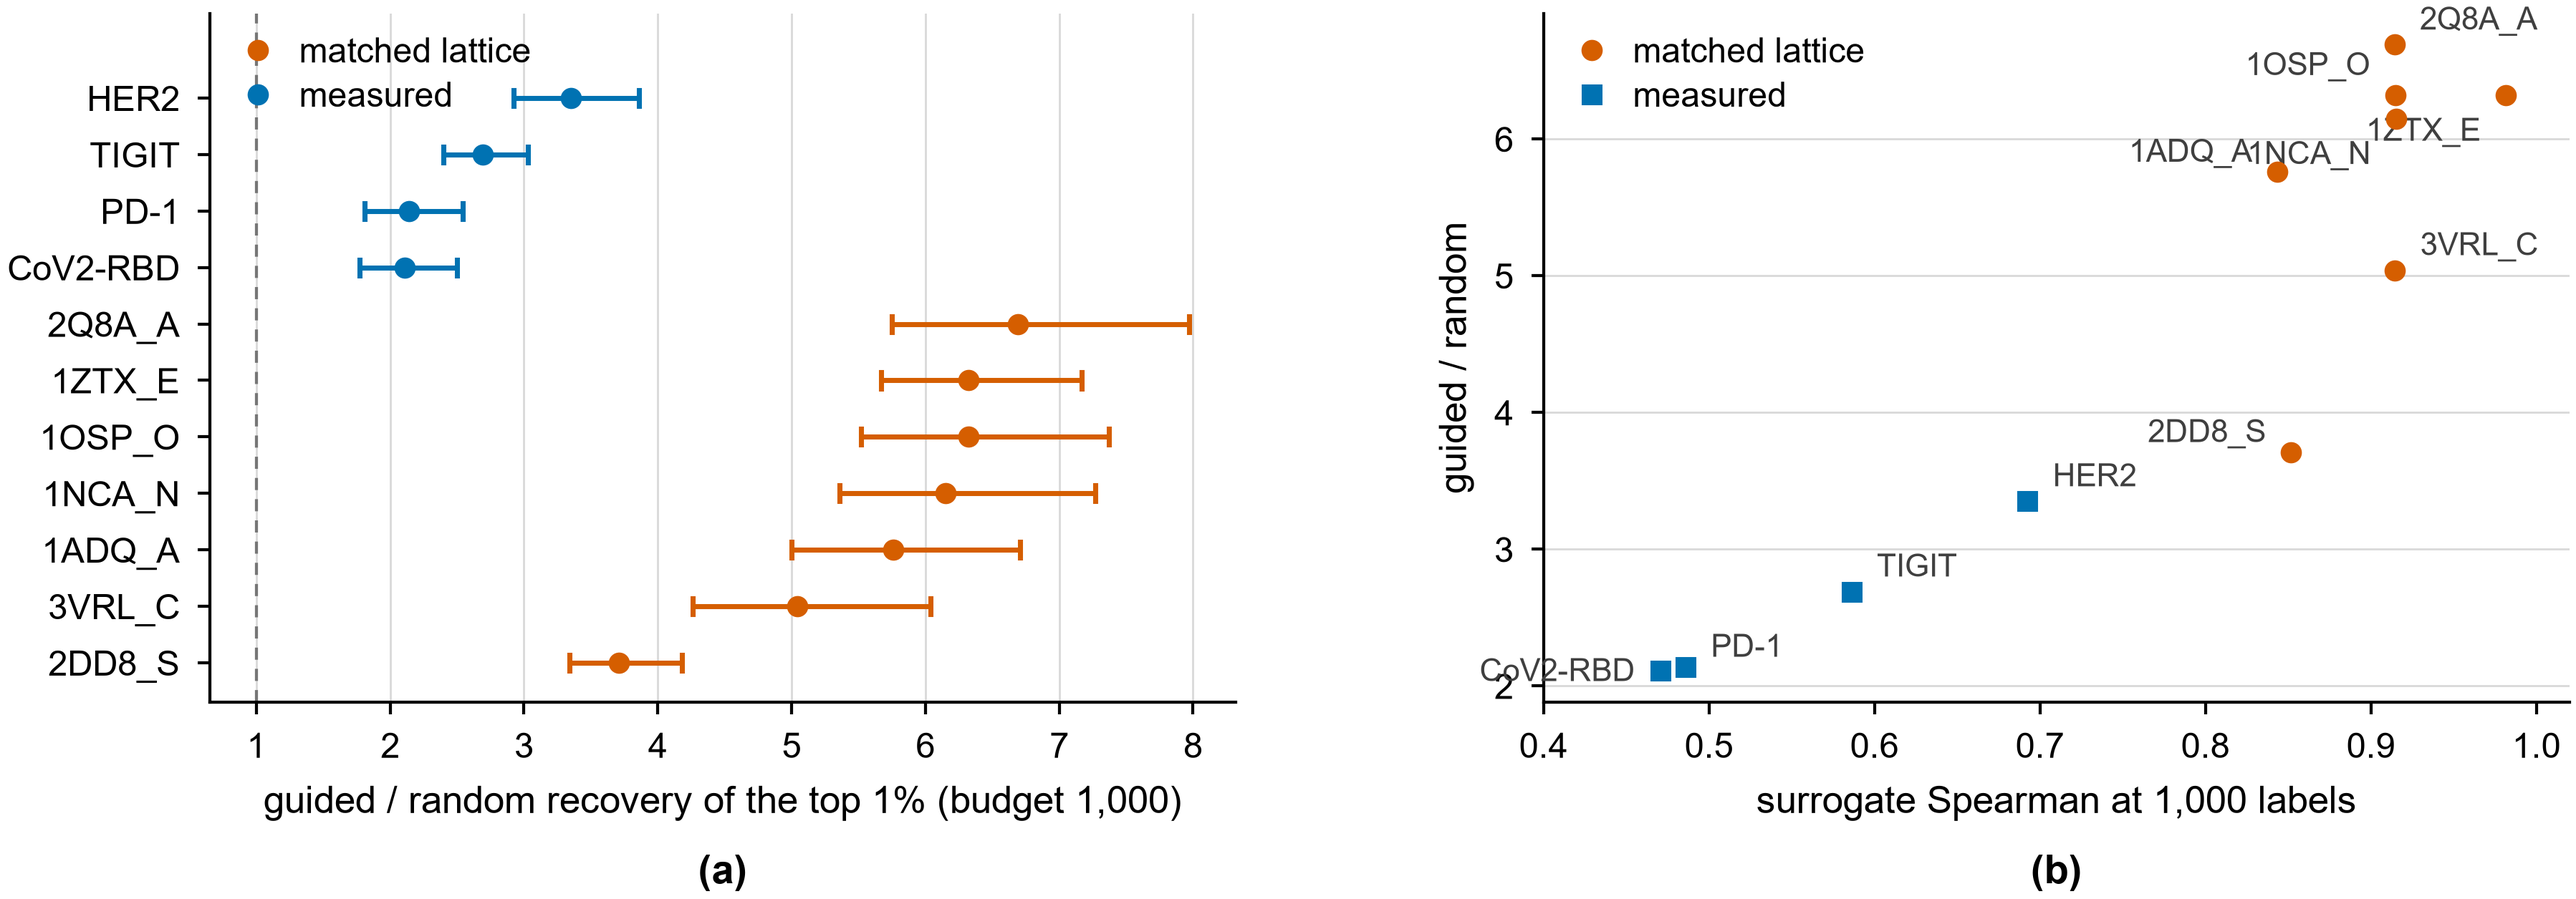
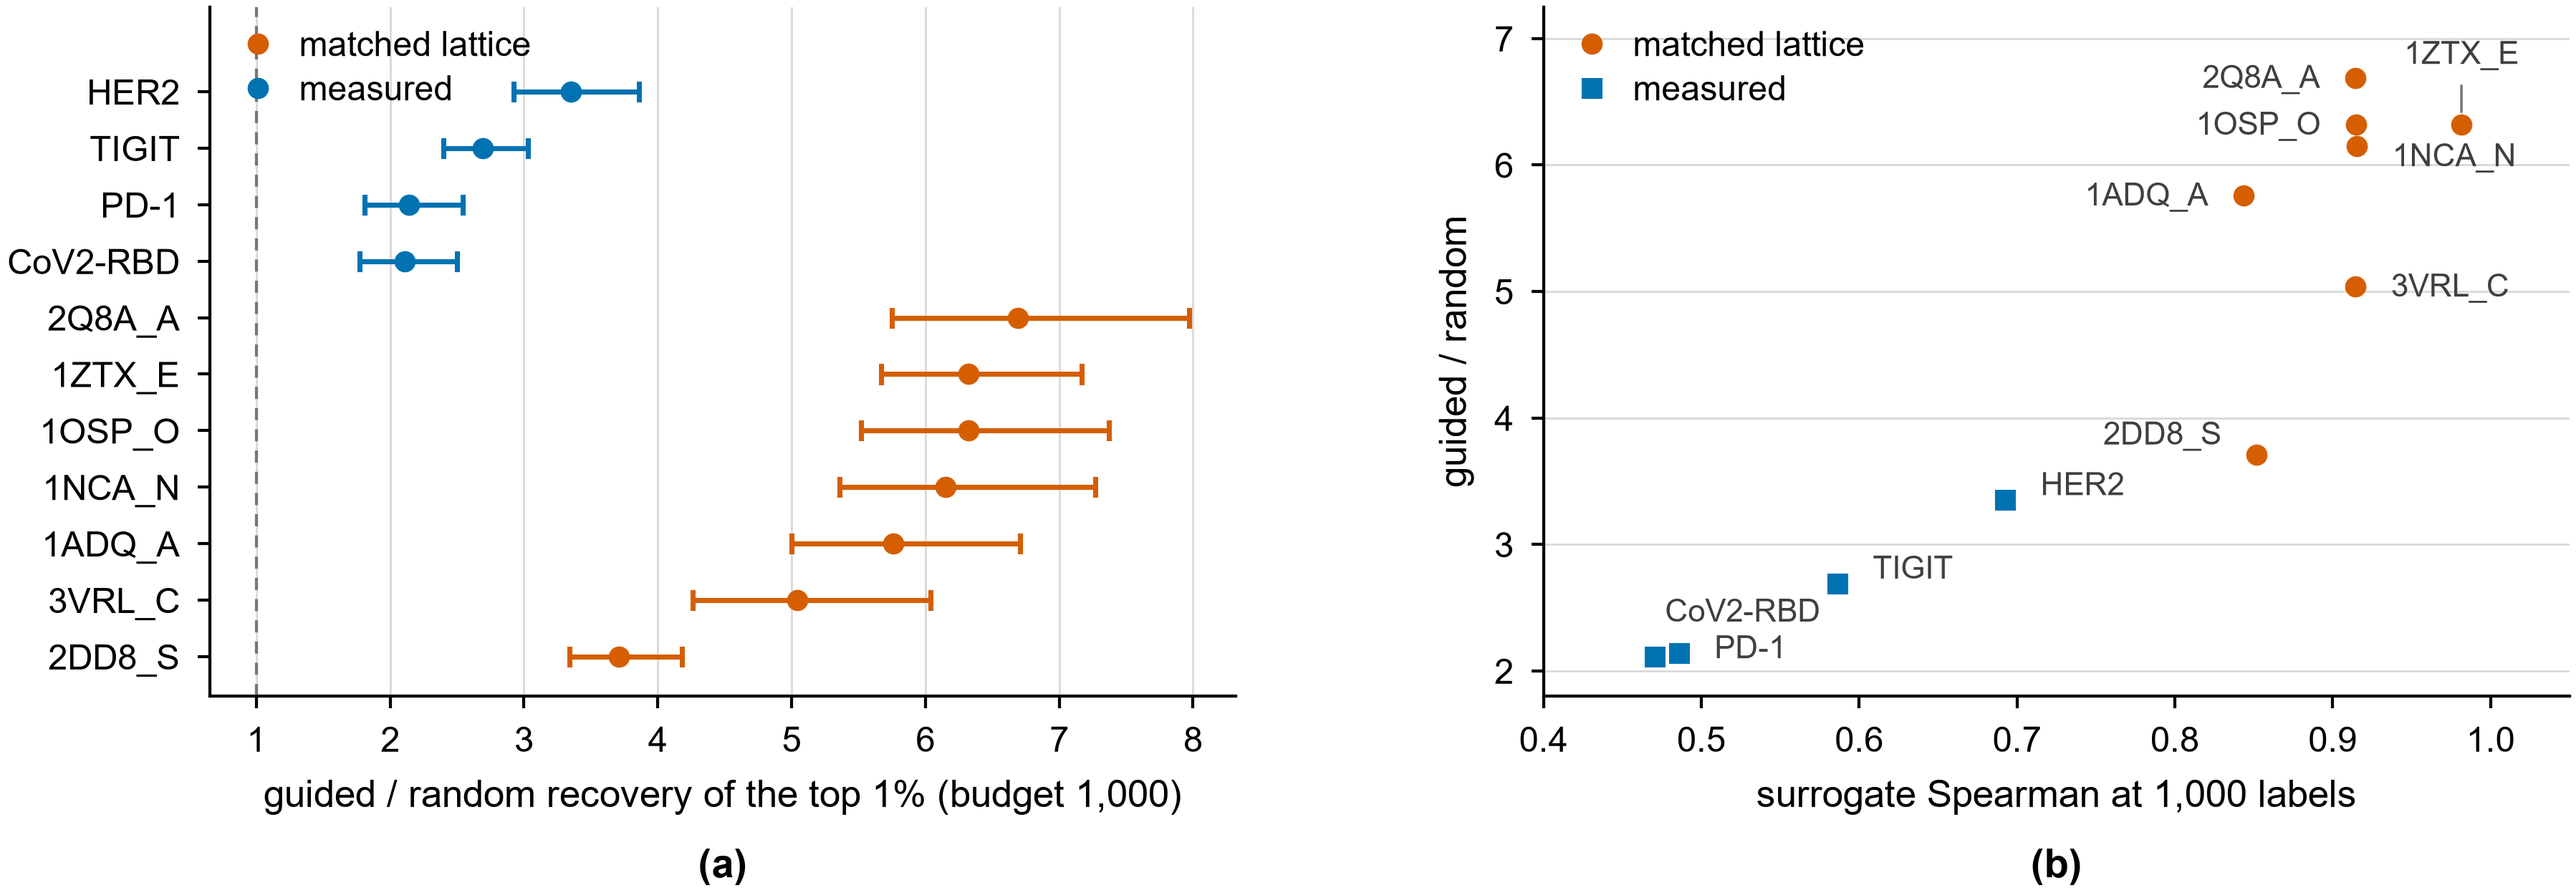
Unstack the antigen labels in Figure 2b
Four of the seven matched antigens sit within 0.001 of each other on the
horizontal axis, so the default label offsets overlapped: 1ADQ_A and 1NCA_N
ran together into "1ADQ_A1NCA_N", 1ZTX_E sat on top of a marker, and
CoV2-RBD ran off the left edge. With eleven points, writing each offset and
alignment out by hand is more reliable than any automatic placement, so that
is what the figure now does; 1ZTX_E keeps a leader line because no free
position for it is nearer to its own marker than to 2Q8A_A's.

The data are untouched. Only label positions and the axis limits change.

Also normalise manuscript.tex to LF. This bundle sets "* -text", so git
stores what we commit; the file had drifted to CRLF during editing, which
made a three-line caption change read as a 2,121-line rewrite.

diff --git a/manuscript/manuscript.tex b/manuscript/manuscript.tex
@@ -149,20 +149,16 @@ binds which antigen, and propose a protocol for future comparisons.
 \caption{The design of the comparison, and what it decides.
 \textbf{(a)}, the five properties on which a synthetic benchmark and a
 measured dataset differ at once, and the three arms compared here. The middle
-arm is built in this work: for each of seven lattice antigens, a parent is
-chosen and 6{,}000 variants of it are scored by the same Absolut! binary, so
-the arm takes library size, sequence structure and alignability from the
-measured datasets while its labels remain lattice energies. Each row is
-shaded across the two arms that share a value, which is the whole of the
-design: label source and the absence of assay noise are deliberately
-\emph{not} matched, so that the middle arm differs from the synthetic arm only
-in the three properties that were matched, and no difference between those two
-arms can be attributed to the synthetic label. Each antigen is one independent
-unit; replicate splits and seeds quantify uncertainty within an antigen, never
-across them. \textbf{(b)}, the four differences in results that appear when
-the arms are compared as they stand, and the verdict on each once size,
-structure and alignability are matched; the same four are set out with their
-intervals in Table~\ref{tab:effects}.}\label{fig:overview}
+arm is built here: for each of seven lattice antigens, 6{,}000 variants of a
+chosen parent are scored by the same Absolut! binary. It therefore takes
+library size, structure and alignability from the measured datasets while its
+labels remain lattice energies. Rows are shaded across the arms that share a
+value. Label source and the absence of assay noise are deliberately
+\emph{not} matched, so those two arms differ only in the three matched
+properties and no difference between them can be attributed to the synthetic
+label. \textbf{(b)}, the four differences in results that appear when the
+arms are compared as they stand, and the verdict on each once the three
+properties are matched; Table~\ref{tab:effects} gives their intervals.}\label{fig:overview}
 \end{figure}
 
 \begin{figure}[t]
@@ -857,14 +853,15 @@ measurements
 campaign measurements (\url{https://github.com/A-Alpha-Bio/alphabind}); the
 c-Met panning reads deposited under BioProject PRJNA607865. The analysis
 outputs generated in this work are archived at Zenodo
-\cite{libmatch2026} (\url{https://doi.org/10.5281/zenodo.24067129}): the per-experiment result tables
+\cite{libmatch2026} (\url{https://doi.org/10.5281/zenodo.24093554}): the per-experiment result tables
 from which every figure and every quantity in the text is computed, together
 with a map linking each number to the table and the script behind it.
 
 The matched libraries themselves are not redistributed. Their sequences were
 designed for this study, but their labels are binding energies computed by
-running Absolut!, which is distributed under a non-commercial licence that
-does not grant onward distribution rights for material computed with it. The
+running Absolut!, whose terms govern redistribution of the software but do not
+state whether material computed with it may be redistributed. We therefore
+claim no right that was not granted to us. The
 archive instead carries each library's specification, its per-file SHA-256
 digest, and the script that rebuilds it from a reader's own licensed Absolut!
 download. The energies are deterministic and the sequence sets are drawn from
@@ -872,7 +869,7 @@ fixed seeds, so the digests establish whether a rebuild is identical to the
 file we used. The same applies to the quarantined first version of the
 1NCA\_N library compared in Supplementary Table~S10.
 \item \textbf{Code availability.} All custom code is archived at Zenodo \cite{libmatch2026}
-(\url{https://doi.org/10.5281/zenodo.24067129}) under the MIT licence and
+(\url{https://doi.org/10.5281/zenodo.24093554}) under the MIT licence and
 developed at \url{https://github.com/kdh6126/libmatch}: the 75 scripts on
 which the reported analyses depend, found by dependency closure from the
 figure and table generators rather than selected by hand, and the tool that
@@ -1054,8 +1051,8 @@ Society: Series B \textbf{57}, 289--300 (1995)
 \bibitem{libmatch2026}
 Kim, D., Bae, M.: libmatch: code and result tables for ``Library size and
 sequence relatedness confound comparisons between synthetic benchmarks and
-experimental antibody data'' (v1.0.6). Zenodo (2026).
-\url{https://doi.org/10.5281/zenodo.24067129}
+experimental antibody data'' (v1.0.7). Zenodo (2026).
+\url{https://doi.org/10.5281/zenodo.24093554}
 
 \end{thebibliography}
 

diff --git a/src/fig_matching_limits.py b/src/fig_matching_limits.py
@@ -40,9 +40,29 @@ RESID = "results/exp73_why_residual.csv"
 BUDGET = 1000
 COLORS = [JS.BLUE, JS.GREEN, JS.PURPLE, JS.ORANGE, JS.SKY]
 # (b)의 점 라벨은 서로 붙는다. 겹치는 것만 방향을 바꾼다.
-NUDGE = {"CoV2-RBD": (-5, -2), "PD-1": (5, 2), "1ADQ_A": (-5, 2),
-         "2DD8_S": (-5, 2), "1NCA_N": (-5, -9), "1OSP_O": (-5, 4),
-         "1ZTX_E": (-5, -9)}
+# (b)의 오른쪽 위에 항원 넷이 rho 0.914~0.915 로 겹쳐 선다. 기본값에
+# 맡기면 이름끼리 포개져 "1ADQ_A1NCA_N" 처럼 읽을 수 없는 글자가 된다.
+# 그래서 점마다 어느 쪽으로 얼마나 밀지, 그리고 어느 끝을 점에 맞출지를
+# (dx, dy, 정렬) 로 직접 적는다. 점이 열한 개뿐이므로 자동 배치보다
+# 손으로 적는 편이 확실하다.
+NUDGE = {
+    "2Q8A_A":   (-7, -2, "right"),
+    "1ZTX_E":   (0, 12, "center"),   # 위로 띄우고 지시선을 단다(LEADER)
+    "1OSP_O":   (-7, -2, "right"),
+    "1NCA_N":   (7, -4, "left"),     # 1OSP_O 와 y 가 0.17 밖에 안 떨어진다
+    "1ADQ_A":   (-7, -2, "right"),
+    "3VRL_C":   (7, -2, "left"),
+    "2DD8_S":   (-7, 2, "right"),
+    "HER2":     (7, 1, "left"),
+    "TIGIT":    (7, 1, "left"),
+    "PD-1":     (7, -1, "left"),
+    "CoV2-RBD": (2, 7, "left"),      # 왼쪽은 축 밖이다 -- 위로 올린다
+}
+
+# 2Q8A_A 의 점이 1ZTX_E 의 이름과 같은 높이에 선다. 가까운 이름을 제 것으로
+# 읽는 것이 보통이므로, 그대로 두면 틀리게 읽힌다. 자리를 더 옮기면 다른
+# 이름과 부딪히므로, 이 하나에만 가는 선을 그어 임자를 밝힌다.
+LEADER = {"1ZTX_E"}
 
 
 def repr_panel(ax):
@@ -118,13 +138,18 @@ def resid_panel(ax):
         ax.plot(g.rho, g.ratio, m, color=c, label=kind, zorder=5, ls="none")
         for _, x in g.iterrows():
             raw = x.arm.split(":")[1]
-            off = NUDGE.get(raw, (5, 3))
+            dx, dy, ha = NUDGE.get(raw, (5, 3, "left"))
+            arrow = (dict(arrowstyle="-", color=JS.MUTED, lw=0.5,
+                          shrinkA=1, shrinkB=2.5)
+                     if raw in LEADER else None)
             ax.annotate(raw, (x.rho, x.ratio),
-                        textcoords="offset points", xytext=off, fontsize=6.2,
-                        color=JS.INK2, ha="right" if off[0] < 0 else "left")
+                        textcoords="offset points", xytext=(dx, dy),
+                        fontsize=6.2, color=JS.INK2, ha=ha,
+                        arrowprops=arrow, zorder=6)
     ax.set_xlabel("surrogate Spearman at 1,000 labels")
     ax.set_ylabel("guided / random")
-    ax.set_xlim(0.40, 1.02)
+    ax.set_xlim(0.40, 1.05)
+    ax.set_ylim(1.80, 7.25)          # 위아래로 라벨이 설 자리를 비워 둔다
     ax.legend(loc="upper left")
     JS.ygrid(ax)
     return float(np.corrcoef(d.rho, d.ratio)[0, 1])
